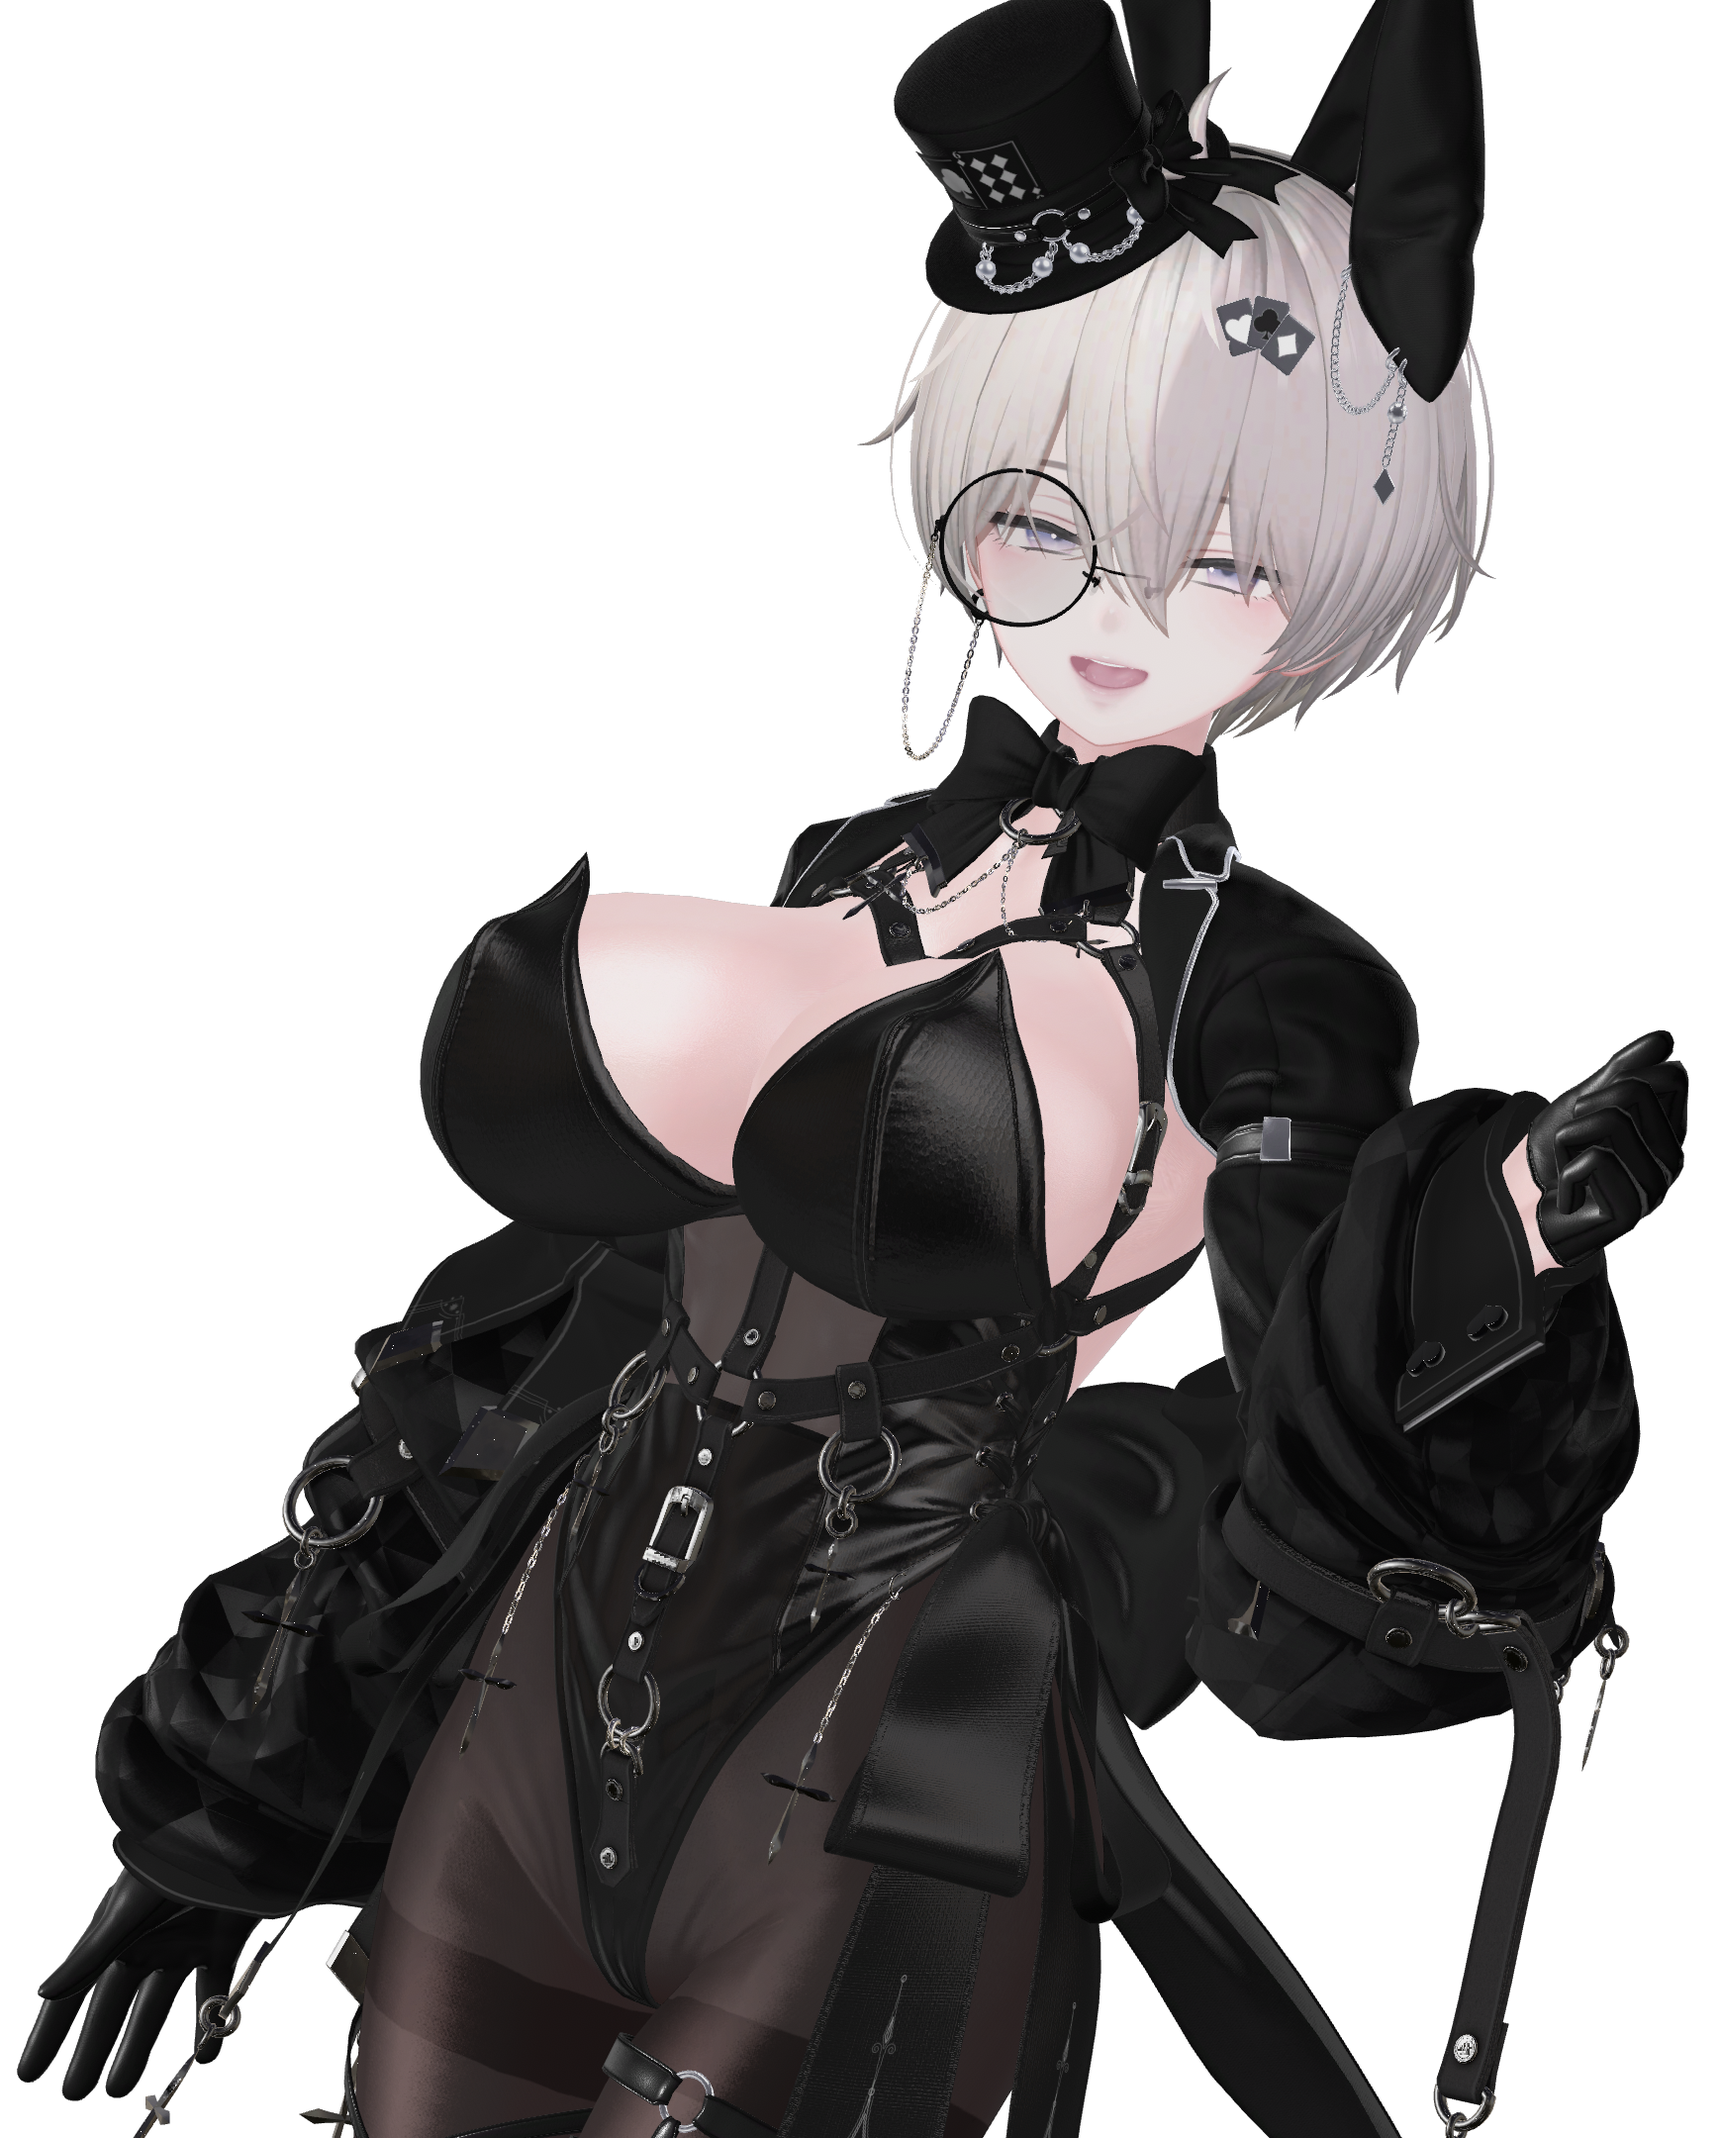
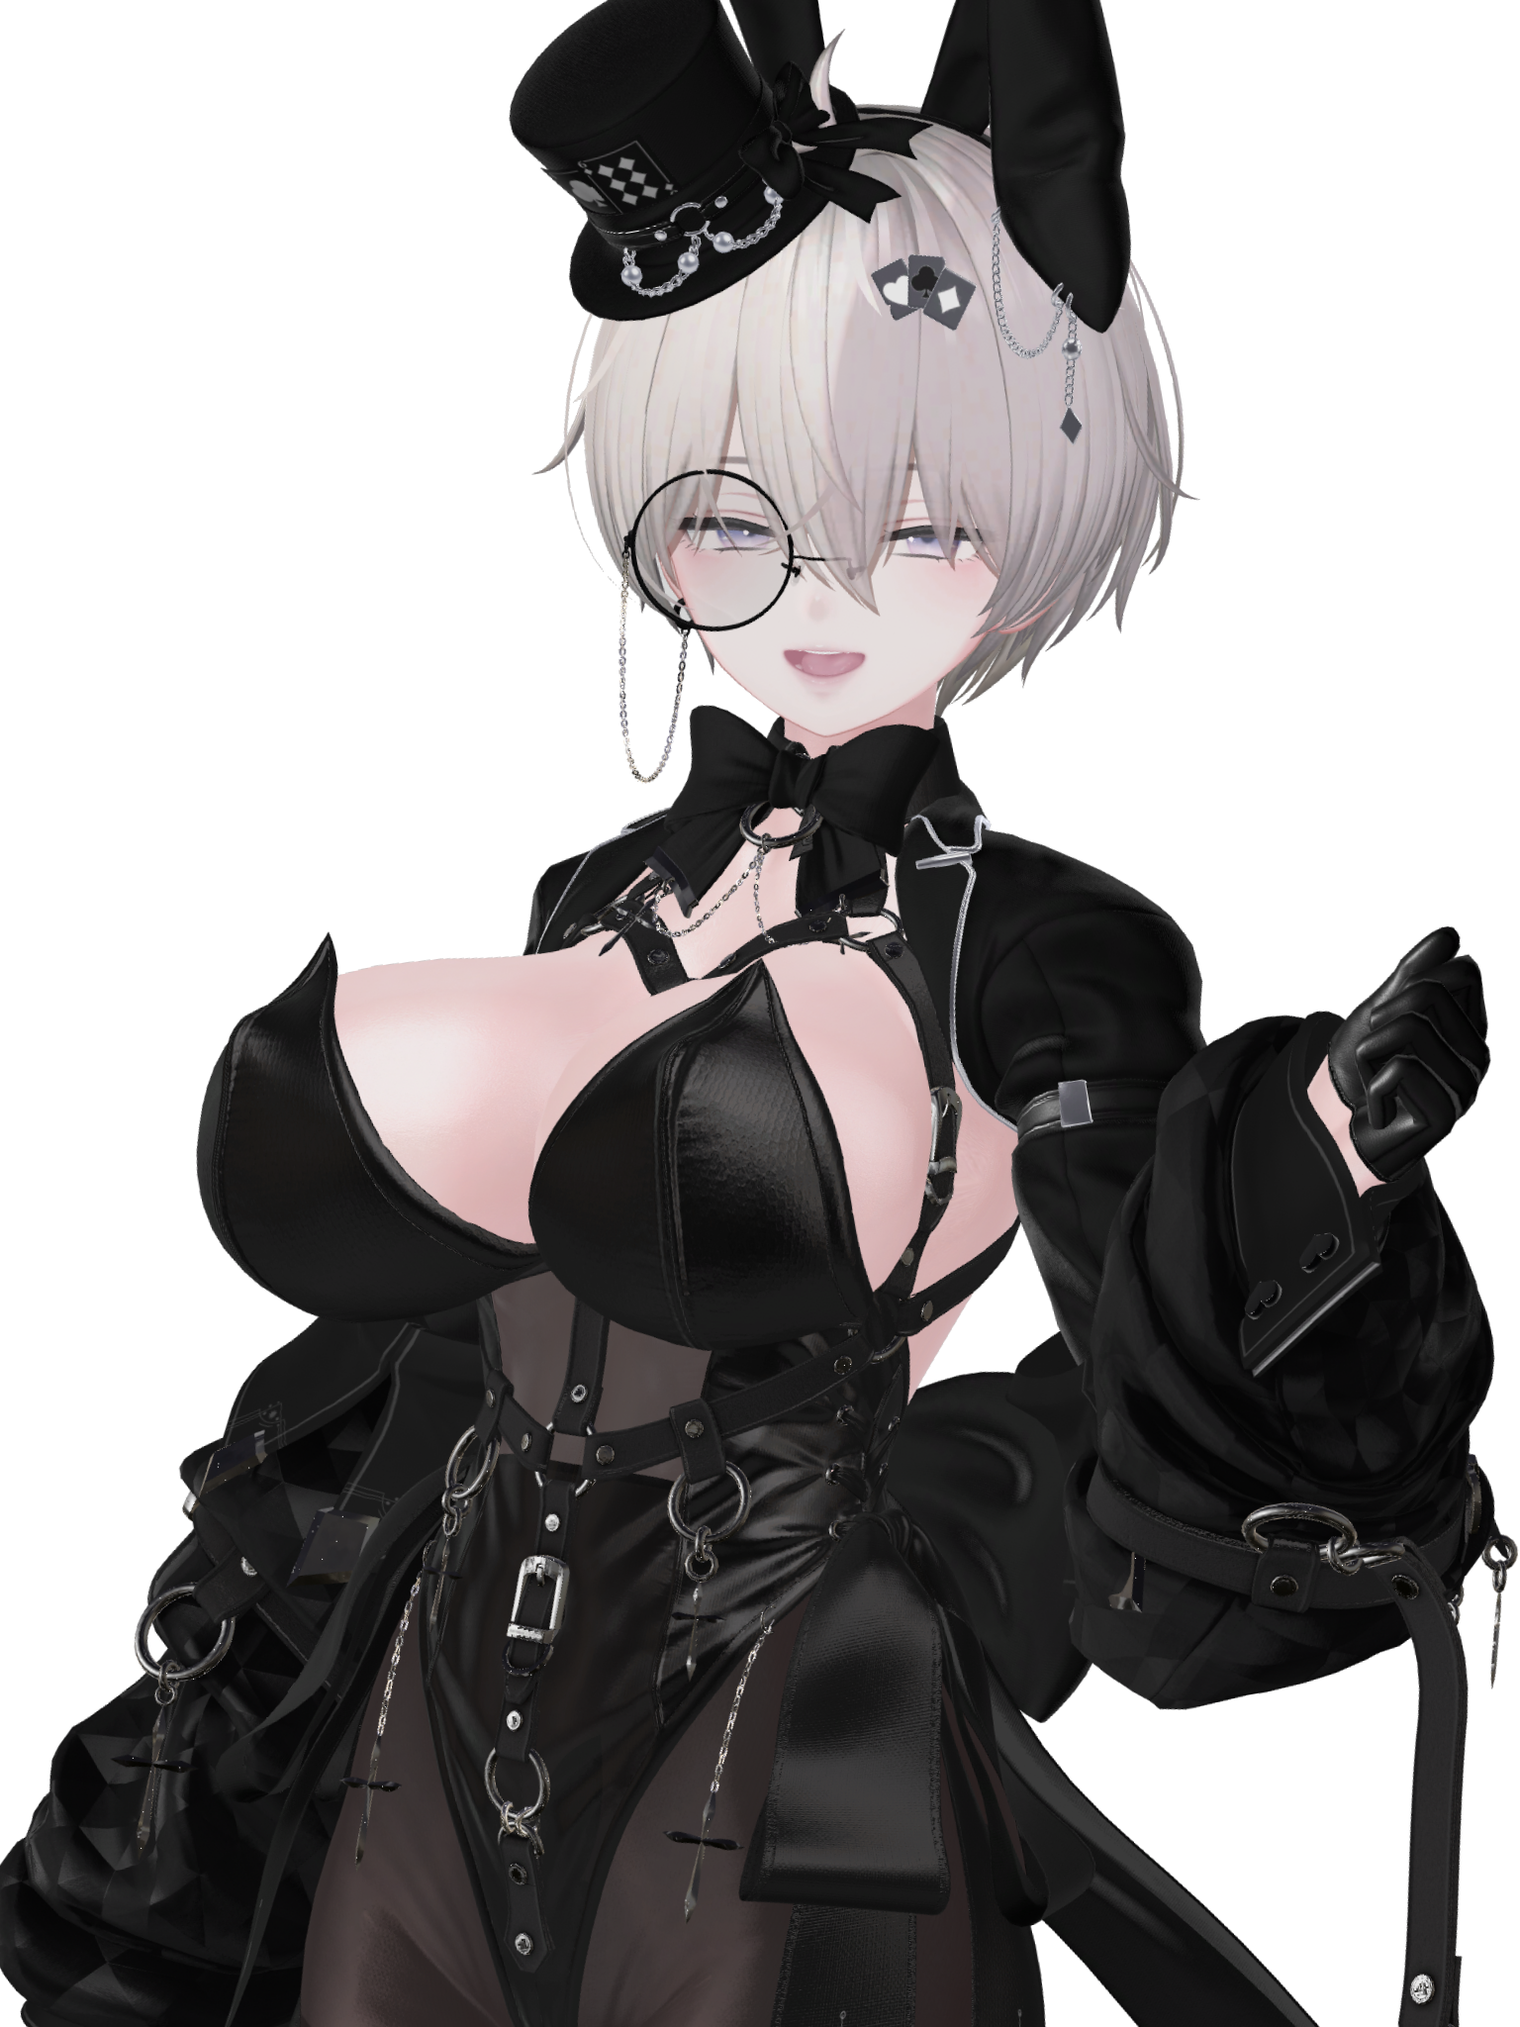
キャラクター追加・キャラクター画像差し替え・パッケージ画像追加

diff --git a/script.js b/script.js
@@ -13,6 +13,61 @@ document.addEventListener("DOMContentLoaded", () => {
   const galleryImages = Array.from(document.querySelectorAll(".gallery-img"));
   const revealSections = Array.from(document.querySelectorAll(".reveal-on-scroll"));
 
+  const heroSection = document.querySelector(".hero");
+  const mainLogoContainer = document.querySelector(".main-logo-container");
+
+  // 切り替えたい画像のリストとロゴの位置設定
+  const heroBackgrounds = [
+    { url: "images/other/back.png",  logoTop: "min(55vh, 550px)", logoLeft: "auto" },
+    { url: "images/other/back2.png", logoTop: "min(52vh, 520px)", logoLeft: "10px" }, // 左寄せ
+    { url: "images/other/back3.png", logoTop: "min(55vh, 550px)", logoLeft: "auto" },
+    { url: "images/other/back4.png", logoTop: "min(55vh, 550px)", logoLeft: "auto" }
+  ];
+
+  let currentHeroIndex = 0;
+
+  // 初期状態をセットする関数（起動時の位置ズレ防止）
+  function setInitialHeroStyle() {
+    const firstBg = heroBackgrounds[0];
+    heroSection.style.backgroundImage = `url(${firstBg.url})`;
+    
+    // 変更前: mainLogoContainer.style.marginTop = firstBg.logoTop;
+    // 変更後: CSS変数に値をセットする
+    mainLogoContainer.style.setProperty('--dynamic-mt', firstBg.logoTop);
+    
+    mainLogoContainer.style.alignItems = (firstBg.logoLeft === "auto") ? "center" : "flex-start";
+    mainLogoContainer.style.paddingLeft = (firstBg.logoLeft === "auto") ? "0" : firstBg.logoLeft;
+    
+    mainLogoContainer.classList.remove("is-hidden");
+  }
+
+  function rotateHeroBackground() {
+    mainLogoContainer.classList.add("is-hidden");
+
+    setTimeout(() => {
+      currentHeroIndex = (currentHeroIndex + 1) % heroBackgrounds.length;
+      const nextBg = heroBackgrounds[currentHeroIndex];
+
+      heroSection.style.backgroundImage = `url(${nextBg.url})`;
+      
+      // 変更前: mainLogoContainer.style.marginTop = nextBg.logoTop;
+      // 変更後: CSS変数に値をセットする
+      mainLogoContainer.style.setProperty('--dynamic-mt', nextBg.logoTop);
+      
+      mainLogoContainer.style.alignItems = (nextBg.logoLeft === "auto") ? "center" : "flex-start";
+      mainLogoContainer.style.paddingLeft = (nextBg.logoLeft === "auto") ? "0" : nextBg.logoLeft;
+
+      setTimeout(() => {
+        mainLogoContainer.classList.remove("is-hidden");
+      }, 1200); 
+    }, 600); 
+  }
+
+  // 実行
+  setInitialHeroStyle();
+  setInterval(rotateHeroBackground, 6000);
+
+
   const characters = [
     {
       name: "あらかわ",
@@ -48,7 +103,21 @@ document.addEventListener("DOMContentLoaded", () => {
       desc: "言葉はほとんどない。ただ視線と仕草だけで場を支配する。\n洗練された見た目に、どこか抜けたユーモア。\n近くにいるだけで意識させられる、静かな存在。",
       bust: "images/characters/enaga_bust.png",
       full: "images/characters/enaga_full.png"
+    },  
+    {
+      name: "うましかちょう",
+      color: "#ac3120",
+      desc: "自分で紹介文を書くのは勘弁してください",
+      bust: "images/characters/bakkerfly_bust.png",
+      full: "images/characters/bakkerfly_full.png"
     },    
+    {
+      name: "スバル",
+      color: "#4260c2",
+      desc: "すべてはここから始まった。\n誕生日を最も有効活用したことで知られる。",
+      bust: "images/characters/subaru_bust.png",
+      full: "images/characters/subaru_full.png"
+    }, 
     {
       name: "ランシア",
       color: "#57e2d7",
@@ -61,7 +130,7 @@ document.addEventListener("DOMContentLoaded", () => {
       color: "#940707",
       desc: "みんなのマスコット的存在。\n中身は狐面をしたイケメンだとまことしやかにささやかれている。",
       bust: "images/characters/kaburaya_bust.png",
-      full: "images/characters/kaburaya_full2.png"
+      full: "images/characters/kaburaya_full.png"
     }
   ];
 

diff --git a/style.css b/style.css
@@ -59,12 +59,17 @@ section {
 
 .hero {
     position: relative;
+    /* 高さを100vhに固定して、中身の動きでセクションが伸び縮みしないようにする */
+    height: 100svh; 
     min-height: 100svh;
     background: url(images/other/back.png) center/cover no-repeat;
     display: flex;
+    flex-direction: column; /* 縦並びに固定 */
     align-items: center;
-    justify-content: center;
-    padding: 80px 20px 30px
+    justify-content: flex-start; /* 上端合わせにしてmargin-topで制御 */
+    padding: 0;
+    overflow: hidden; /* はみ出しによるガタつきを防止 */
+    transition: background-image 1.2s ease-in-out;
 }
 
 .hero-corner-logos {
@@ -84,12 +89,66 @@ section {
 .hero-content {
     width: 100%;
     max-width: 1100px;
-    text-align: center
+    text-align: center;
+    /* ▼ 以下を追加：親要素(hero)の中で高さいっぱいに広がるようにする */
+    display: flex;
+    flex-direction: column;
+    flex: 1; 
+}
+
+/* ベースのスタイル */
+.main-logo-container {
+    display: flex;
+    flex-direction: column;
+    align-items: center; 
+    width: 100%;
+    max-width: 1200px; 
+    transition: opacity 0.6s ease-in-out;
+    z-index: 5;
+    
+    /* JSから渡された変数を読み込む（JSが動く前はデフォルト値を使用） */
+    margin-top: var(--dynamic-mt, min(55vh, 550px));
+}
+
+@media(max-width: 560px) {
+    /* 既存のヘッダーなどのスタイルはそのまま維持 */
+
+    .main-logo-container {
+        /* ▼ スマホでも確実な上下中央配置 */
+        margin-top: auto;
+        margin-bottom: auto;
+    }
+
+    .logo {
+        /* ▼ スマホ用にさらに調整 */
+        width: min(350px, 80vw, 40svh);
+    }
+    
+    .release-date {
+        /* ▼ スマホでは文字も少し小さめにすると、よりはみ出しにくいです */
+        font-size: 1.2rem; 
+    }
 }
 
 .logo {
-    width: min(500px,92vw);
-    margin-top: min(45vh,450px)
+    display: block;
+    width: min(500px, 92vw);
+    flex-shrink: 0;
+}
+
+.release-date {
+    font-family: 'Noto Serif JP', serif;
+    font-weight: 700;
+    font-size: 1.5rem;
+    letter-spacing: 0.1em;
+    margin-top: 15px; /* ロゴとの隙間 */
+    color: #fff;
+    text-shadow: 0 0 10px rgba(0,0,0,0.8);
+}
+
+/* 起動時にロゴごと消えるように設定 */
+.main-logo-container.is-hidden {
+    opacity: 0;
 }
 
 .release {
@@ -191,7 +250,7 @@ body.has-scroll-reveal .reveal-on-scroll.is-visible {
 }
 
 .character-image img {
-    width: min(320px,85vw);
+    width: min(400px,85vw);
     border-radius: 10px;
     cursor: pointer
 }
@@ -347,9 +406,20 @@ footer {
         height: 44px
     }
 
-    .logo {
-        margin-top: min(38vh,320px)
+    .main-logo-container {
+        /* ▼ 固定で押し下げるのをやめ、上下中央に自動配置する */
+        margin-top: auto;
+        margin-bottom: auto;
     }
+
+    .logo {
+        /* ▼ 画面の高さ（svh）も計算に入れ、縦が狭い場合は安全に縮ませる */
+        width: min(450px, 85vw, 50svh); 
+    }
+
+    /*.logo {
+        margin-top: min(38vh,320px)
+    }*/
 
     .section {
         padding: 76px 6%
@@ -386,9 +456,25 @@ footer {
         height: 24px
     }
 
-    .logo {
-        margin-top: min(34vh,230px)
+    .main-logo-container {
+        /* ▼ スマホでも確実な上下中央配置 */
+        margin-top: auto;
+        margin-bottom: auto;
     }
+
+    .logo {
+        /* ▼ スマホ用にさらに調整 */
+        width: min(350px, 80vw, 40svh);
+    }
+    
+    .release-date {
+        /* ▼ スマホでは文字も少し小さめにすると、よりはみ出しにくいです */
+        font-size: 1.2rem; 
+    }
+
+    /*.logo {
+        margin-top: min(34vh,230px)
+    }*/
 
     .character-text {
         text-align: center

diff --git a/index.html b/index.html
@@ -27,8 +27,10 @@
                     <img src="images/other/switch_logo.png" alt="Switch Logo">
                     <img src="images/other/steam_logo.png" alt="Steam Logo">
                 </div>
-                <img src="images/other/logo_bunnydiner.png" class="logo" alt="Bunny Diner Logo">
-                <p class="release">2826.04.01 RELEASE</p>
+                <div class="main-logo-container">
+                    <img src="images/other/logo_bunnydiner.png" alt="Bunny Diner Logo" class="logo">
+                    <p class="release-date">2826.04.01 RELEASE</p>
+                </div>
             </div>
         </section>
         <div class="store-buttons">

diff --git a/README.md b/README.md
@@ -9,3 +9,8 @@
 
 * キャラクター追加
 * subatchリンク追加
+
+## 2026.04.25
+* キャラクター画像の差し替え
+* キャラクター追加
+* heroバックグラウンド画像切り替えの追加
